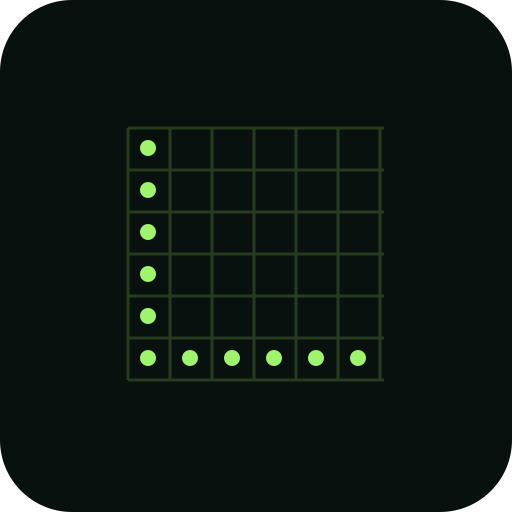
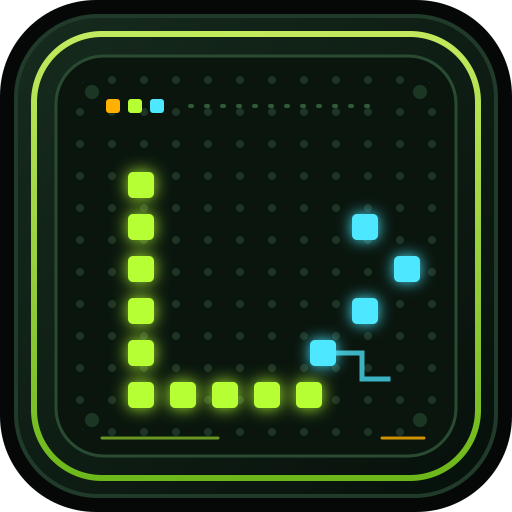
feat: add retro LED brand kit

diff --git a/web/static/brand/brand.css b/web/static/brand/brand.css
@@ -1,0 +1,100 @@
+:root {
+    --ledit-ink: #050806;
+    --ledit-panel: #08130d;
+    --ledit-panel-raised: #102018;
+    --ledit-phosphor: #b7ff35;
+    --ledit-phosphor-dim: #6da51d;
+    --ledit-cyan: #4de8ff;
+    --ledit-amber: #ffb000;
+    --ledit-paper: #f4f7e8;
+    --ledit-mist: #84a28a;
+}
+
+h1,
+h2 {
+    font-family: "Space Mono", "Courier New", monospace;
+    letter-spacing: -.045em;
+}
+
+.ledit-sidebar {
+    background-color: var(--ledit-ink) !important;
+    border-right: 1px solid #1b3523;
+    box-shadow: 8px 0 24px rgba(5, 8, 6, .12);
+}
+
+.ledit-sidebar hr {
+    border-color: #24432c;
+    opacity: 1;
+}
+
+.ledit-sidebar .nav-link {
+    border-left: 2px solid transparent;
+    transition: color .15s ease, background-color .15s ease, border-color .15s ease;
+}
+
+.ledit-sidebar .nav-link:hover,
+.ledit-sidebar .nav-link:focus {
+    color: var(--ledit-phosphor) !important;
+    background-color: rgba(183, 255, 53, .08);
+    border-left-color: var(--ledit-phosphor);
+}
+
+.ledit-brand {
+    gap: .65rem;
+    letter-spacing: -.04em;
+    white-space: nowrap;
+}
+
+.ledit-brand-mark {
+    width: 2.25rem;
+    height: 2.25rem;
+    flex: 0 0 auto;
+}
+
+.brand .ledit-brand-mark {
+    width: 34px;
+    height: 34px;
+}
+
+.brand .ledit-wordmark strong {
+    color: var(--ledit-paper);
+    font-family: "Space Mono", "Courier New", monospace;
+    font-size: 1.65rem;
+    letter-spacing: .05em;
+}
+
+.brand .ledit-wordmark small {
+    color: var(--ledit-mist);
+    font-family: "Space Mono", "Courier New", monospace;
+    font-size: 10px;
+    letter-spacing: .16em;
+}
+
+.ledit-wordmark {
+    color: var(--ledit-paper);
+    font-family: "Space Mono", "Courier New", monospace;
+    font-weight: 700;
+}
+
+.ledit-wordmark .ledit-accent {
+    color: var(--ledit-phosphor);
+}
+
+.ledit-login-brand {
+    width: min(100%, 260px);
+    margin: 0 auto 1.25rem;
+}
+
+.ledit-signal-line {
+    height: 3px;
+    border: 0;
+    background: linear-gradient(90deg, var(--ledit-phosphor) 0 42%, var(--ledit-cyan) 42% 72%, var(--ledit-amber) 72%);
+    opacity: .8;
+}
+
+@media (max-width: 576px) {
+    .ledit-brand-mark {
+        width: 2rem;
+        height: 2rem;
+    }
+}

diff --git a/web/frontend/styles.css b/web/frontend/styles.css
@@ -1,3 +1,4 @@
+@import url('/static/brand/brand.css');
 @font-face { font-family: Pixelify; src: url('/static/fonts/PixelifySans.ttf') format('truetype'); font-display: swap; }
 :root { color-scheme: dark; --ink:#09110e; --panel:#101c18; --panel-2:#15251f; --line:#294238; --muted:#8ba49a; --text:#e6f2ea; --green:#a6ff70; --green-dim:#5ecb69; --amber:#ffc857; --red:#ff7066; --shadow:0 18px 50px rgba(0,0,0,.28); --radius:14px; --mono:'IBM Plex Mono','Cascadia Code','SFMono-Regular',monospace; --sans:ui-sans-serif,system-ui,-apple-system,BlinkMacSystemFont,'Segoe UI',sans-serif; }
 * { box-sizing:border-box; } html { background:var(--ink); } body { min-width:320px; margin:0; color:var(--text); background:radial-gradient(circle at 72% -10%, #1d392c 0, transparent 35rem), var(--ink); font-family:var(--sans); line-height:1.5; }

diff --git a/web/templates/admin/sidebar.html b/web/templates/admin/sidebar.html
@@ -4,9 +4,9 @@
 </button>
 <aside class="sidebar" data-nav aria-label="Primary navigation">
     {{template "flash" .}}
-    <a href="/" class="brand" aria-label="LEDit live feed">
-        <img src="/static/pwa/icon.svg" alt="">
-        <span><strong>LEDit</strong><small>CONTROL ROOM</small></span>
+    <a href="/" class="brand ledit-brand" aria-label="LEDit live feed">
+        <img src="/static/brand/ledit-mark.svg" class="ledit-brand-mark" alt="">
+        <span class="ledit-wordmark"><strong>LED<span class="ledit-accent">it</span></strong><small>CONTROL ROOM</small></span>
     </a>
     <nav class="nav" id="primary-nav">
         <span class="nav-label">Observe</span>

diff --git a/web/templates/login.html b/web/templates/login.html
@@ -10,6 +10,7 @@
     <div class="container d-flex justify-content-center align-items-center" style="min-height: 100vh;">
         <div class="card" style="width: 400px;">
             <div class="card-body">
+                <img src="/static/brand/ledit-lockup-light.svg" class="ledit-login-brand d-block" alt="LEDit">
                 <h1 class="card-title text-center mb-4">LEDit Login</h1>
                 {{if .error}}<div class="alert alert-danger">{{.error}}</div>{{end}}
                 {{if .info}}<div class="alert alert-success">{{.info}}</div>{{end}}

diff --git a/web/templates/base.html b/web/templates/base.html
@@ -4,7 +4,7 @@
     <meta charset="UTF-8">
     <meta name="viewport" content="width=device-width, initial-scale=1.0">
     <title>LEDit · {{.title}}</title>
-    <meta name="theme-color" content="#09110e">
+    <meta name="theme-color" content="#08130d">
     <meta name="description" content="LEDit LED matrix control room">
     <link rel="manifest" href="/static/pwa/manifest.json">
     <link rel="icon" href="/static/pwa/favicon.png" type="image/png">

diff --git a/web/templates/index.html b/web/templates/index.html
@@ -4,7 +4,7 @@
     <meta charset="UTF-8">
     <meta name="viewport" content="width=device-width, initial-scale=1.0">
     <title>LEDit · Live Feed</title>
-    <meta name="theme-color" content="#09110e">
+    <meta name="theme-color" content="#08130d">
     <link rel="manifest" href="/static/pwa/manifest.json">
     <link rel="icon" href="/static/pwa/favicon.png" type="image/png">
     <link rel="apple-touch-icon" href="/static/pwa/icon-180.png">

diff --git a/web/static/pwa/sw.js b/web/static/pwa/sw.js
@@ -1,9 +1,13 @@
-const CACHE_NAME = 'ledit-v1';
+const CACHE_NAME = 'ledit-v2';
 const ASSETS = [
   '/',
   '/login',
   '/static/pwa/manifest.json',
-  '/static/pwa/icon.svg'
+  '/static/pwa/icon.svg',
+  '/static/brand/ledit-mark.svg',
+  '/static/brand/ledit-lockup-dark.svg',
+  '/static/brand/ledit-lockup-light.svg',
+  '/static/brand/brand.css'
 ];
 
 // Install: cache app shell

diff --git a/brandkit/README.md b/brandkit/README.md
@@ -1,0 +1,56 @@
+# LEDit Brand Kit
+
+LEDit is a tiny broadcast terminal for live data. The identity treats every update like a signal on a classic LED matrix: crisp, bright, useful, and a little bit nerdy.
+
+## Logo Files
+
+The reusable source assets live in [`web/static/brand`](../web/static/brand/).
+
+| Asset | Use |
+| --- | --- |
+| [`ledit-mark.svg`](../web/static/brand/ledit-mark.svg) | Square app icon, avatar, favicon, or compact signature |
+| [`ledit-lockup-dark.svg`](../web/static/brand/ledit-lockup-dark.svg) | Primary lockup on dark panels and terminal-style surfaces |
+| [`ledit-lockup-light.svg`](../web/static/brand/ledit-lockup-light.svg) | Lockup on light documentation and print surfaces |
+| [`ledit-pattern.svg`](../web/static/brand/ledit-pattern.svg) | Quiet matrix texture for large backgrounds |
+| [`brand.css`](../web/static/brand/brand.css) | Shared CSS tokens and application brand helpers |
+
+The mark is an `L` rendered as lit matrix pixels. The cyan pixels read as a serial signal or terminal prompt; the amber diode is the single warm status light in an otherwise phosphor-green system.
+
+## Palette
+
+| Name | Hex | Role |
+| --- | --- | --- |
+| Ink | `#050806` | Deepest background and high-contrast text |
+| Panel | `#08130D` | Main dark surface |
+| Phosphor | `#B7FF35` | Primary action, active state, and LED glow |
+| Phosphor Dim | `#6DA51D` | Borders, secondary emphasis, and light-surface accent |
+| Signal Cyan | `#4DE8FF` | Links, data traces, and secondary status |
+| Status Amber | `#FFB000` | Warnings, attention, and indicator lights |
+| Paper | `#F4F7E8` | Warm light text on dark surfaces |
+| Mist | `#84A28A` | Supporting text on dark surfaces |
+
+Use Ink, Panel, and Paper as the structural colors. Phosphor is the hero color; Cyan and Amber are signals, not competing brand colors. Do not use all three as equal-sized fills.
+
+## Type
+
+Use a monospace face for display labels, headings, data, and the wordmark: `Space Mono`, `Courier New`, or the platform's `ui-monospace` fallback. Use the existing UI sans-serif for long-form copy and controls. Keep display text tight, uppercase when it behaves like a label, and sentence case for instructions.
+
+## Spacing And Size
+
+- Keep clear space around the mark equal to at least one LED pixel, or 8% of the mark width.
+- Do not render the standalone mark below `24px` wide.
+- Do not render the lockup below `160px` wide; use the mark alone when space is tighter.
+- Keep the logo optically aligned to the LED grid rather than centered against a text baseline.
+
+## Usage
+
+- Use the dark lockup on `#050806`, `#08130D`, and other dark surfaces.
+- Use the light lockup on white or pale documentation surfaces.
+- Use the pattern at low opacity and at least 2x its source tile size; it should feel like hardware texture, not wallpaper.
+- Keep the phosphor glow restrained. Bright pixels should signal state or focus, not decorate every surface.
+
+Avoid stretching, rotating, recoloring the matrix pixels, adding drop shadows to the lockup, or placing the dark lockup directly on a busy image. Never redraw the `L` with a smooth font; the pixel construction is the recognizable part of the mark.
+
+## Tone
+
+Write like a well-labeled control panel: direct, curious, and lightly playful. Prefer `SIGNAL CONNECTED`, `NEXT FRAME`, and `DISPLAY ONLINE` over generic marketing language. Geeky is good; faux-hacker jargon and forced nostalgia are not.

diff --git a/README.md b/README.md
@@ -10,6 +10,12 @@
 
 A self-hosted LED matrix display server that cycles through content from multiple datasources and streams them to LED matrix devices via WebSocket. Supports a wide variety of datasources including media servers, weather, crypto, calendars, RSS feeds, and more.
 
+<p align="center">
+  <img src="web/static/brand/ledit-lockup-light.svg" alt="LEDit" width="420">
+</p>
+
+The project identity lives in [`brandkit/README.md`](brandkit/README.md), with reusable SVG logo variants and shared brand tokens in [`web/static/brand`](web/static/brand/).
+
 ## Features
 
 ### Data Sources
